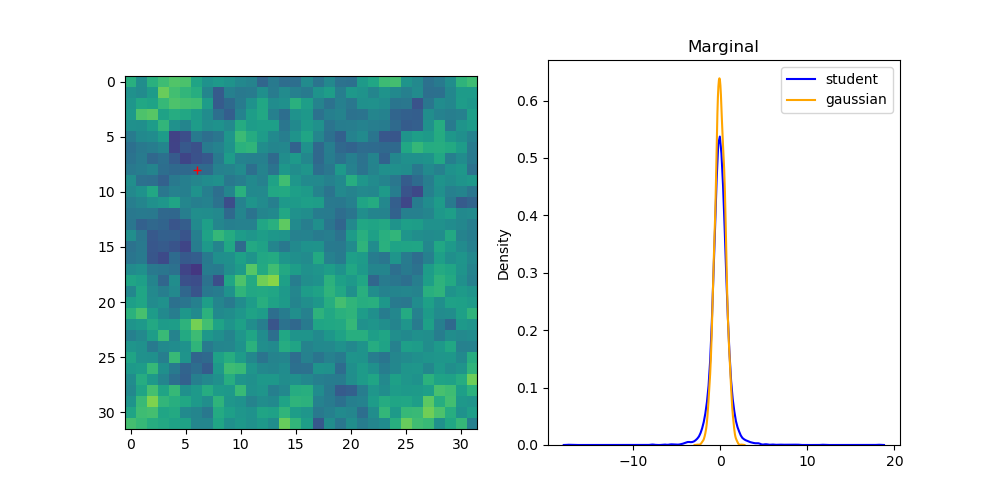
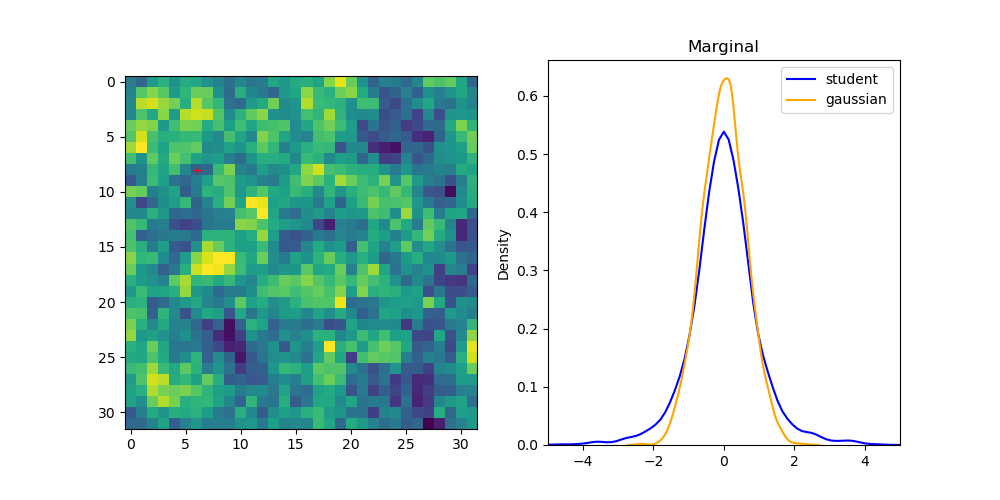
update local for br model 15 log10 large checker only

diff --git a/brown_resnick/sde_diffusion/masked/unparameterized/data_generation_on_the_fly.py b/brown_resnick/sde_diffusion/masked/unparameterized/data_generation_on_the_fly.py
@@ -104,6 +104,11 @@ def generate_checkered_masks_on_the_fly(n, number_of_replicates_per_mask):
     checkered_masks = checkered_masks.reshape((checkered_masks.shape[0],1,n,n))
     return np.repeat(checkered_masks, number_of_replicates_per_mask, axis = 0)
 
+def generate_large_checkered_masks_on_the_fly(n, number_of_replicates_per_mask):
+
+    checkered_masks = (produce_checkered_mask(n))[2:3,:,:]
+    checkered_masks = checkered_masks.reshape((1,1,n,n))
+    return np.repeat(checkered_masks, number_of_replicates_per_mask, axis = 0)
 
 #create matrix with masks from random_masks_on_the_fly and block_masks
 def generate_random_and_block_masks_on_the_fly(n, number_of_random_replicates_per_percentage, random_missingness_percentages,
@@ -294,7 +299,8 @@ def get_training_and_evaluation_mask_and_image_datasets_per_mask_log10(draw_numb
                                                                        random_missingness_percentages, 
                                                                        number_of_evaluation_random_replicates,
                                                                        batch_size, eval_batch_size, range_value,
-                                                                       smooth_value, seed_values, n):
+                                                                       smooth_value, seed_values, n,
+                                                                       trainquantfile):
     
     minX = -10
     maxX = 10
@@ -338,12 +344,10 @@ def get_training_and_evaluation_mask_and_image_datasets_per_mask_log10(draw_numb
     eval_dataloader = DataLoader(eval_dataset, batch_size = eval_batch_size, shuffle = True)
     return train_dataloader, eval_dataloader
 
-def get_training_and_evaluation_mask_and_image_datasets_per_mask_log10_checker(draw_number, number_of_random_replicates, 
-                                                                       random_missingness_percentages, 
-                                                                       number_of_evaluation_random_replicates,
+def get_training_and_evaluation_mask_and_image_datasets_per_mask_log10_checker(draw_number, 
                                                                        batch_size, eval_batch_size, range_value,
                                                                        smooth_value, seed_values, n,
-                                                                       trainquantfile, number_of_checker_replicates,
+                                                                       number_of_checker_replicates,
                                                                        number_of_evaluation_checker_replicates):
     
     minX = -10
@@ -352,37 +356,21 @@ def get_training_and_evaluation_mask_and_image_datasets_per_mask_log10_checker(d
     maxX = 10
     maxY = 10
     
-    train_masks = generate_random_and_checker_masks_on_the_fly(n, number_of_evaluation_random_replicates,
-                                                                random_missingness_percentages,
-                                                                number_of_evaluation_checker_replicates)
-    eval_masks = generate_random_and_checker_masks_on_the_fly(n, number_of_evaluation_random_replicates,
-                                                                random_missingness_percentages,
-                                                                number_of_evaluation_checker_replicates)
+    train_masks = generate_large_checkered_masks_on_the_fly(n, number_of_checker_replicates)
+    eval_masks = generate_random_and_checker_masks_on_the_fly(n, number_of_evaluation_checker_replicates)
     train_images, eval_images = generate_train_and_evaluation_brown_resnick_process(range_value,
                                                                                     smooth_value,
                                                                                     seed_values[0],
-                                                                                    number_of_random_replicates,
-                                                                                    number_of_evaluation_random_replicates,
+                                                                                    number_of_checker_replicates,
+                                                                                    number_of_evaluation_checker_replicates,
                                                                                     n)
     if(draw_number == 0):
         train_images = log10_transformation(train_images)
         eval_images = log10_transformation(eval_images)
-        trainquant = float(np.quantile(train_images, [.8]))
-        train_images = 2*(train_images - trainquant)
-        trainlogmin = float(np.min(train_images))
-        trainlogmax = float(np.max(train_images))
-        print(trainlogmax)
-        print(trainlogmin)
-        eval_images = 2*(eval_images - trainquant)
-        trainquant = np.array([trainquant])
-        np.save(trainquantfile, trainquant)
 
     else:
-        trainquant = np.load(trainquantfile)
         train_images = log10_transformation(train_images)
         eval_images = log10_transformation(eval_images)
-        train_images = train_images - float(trainquant)
-        eval_images = eval_images - float(trainquant)
 
     train_dataset = CustomSpatialImageandMaskDataset(train_images, train_masks)
     eval_dataset = (CustomSpatialImageandMaskDataset)(eval_images, eval_masks)

diff --git a/brown_resnick/sde_diffusion/masked/unparameterized/train.py b/brown_resnick/sde_diffusion/masked/unparameterized/train.py
@@ -274,14 +274,10 @@ def train_per_multiple_masks_log10(config, data_draws, epochs_per_drawn_data,
     epochs_and_draws = [i for i in range(0, len(train_losses))]
     visualize_loss(epochs_and_draws, train_losses, eval_losses, loss_path)
 
-def train_per_multiple_masks_log10_checker(config, data_draws, epochs_per_drawn_data,
-                             random_missingness_percentages,
-                             number_of_random_replicates,
-                             number_of_eval_random_replicates, seed_values,
-                             range_value, smooth_value, batch_size,
-                             eval_batch_size, score_model_path, loss_path, n,
-                             trainquantfile, number_of_checker_replicates,
-                             number_of_eval_checker_replicates):
+def train_per_multiple_masks_log10_checker(config, data_draws, epochs_per_drawn_data, seed_values,
+                                           range_value, smooth_value, batch_size, eval_batch_size,
+                                           score_model_path, loss_path, n, number_of_checker_replicates,
+                                           number_of_eval_checker_replicates):
     
     # Initialize model.
     #score_model = mutils.create_model(config)
@@ -321,13 +317,11 @@ def train_per_multiple_masks_log10_checker(config, data_draws, epochs_per_drawn_
     for data_draw in range(0, data_draws):
         print("data draw")
         print(data_draw)
-        train_dataloader, eval_dataloader = get_training_and_evaluation_mask_and_image_datasets_per_mask_log10_checker(data_draw, number_of_random_replicates,
-                                                                                                         random_missingness_percentages,
-                                                                                                         number_of_eval_random_replicates,
-                                                                                                         batch_size, eval_batch_size, range_value,
-                                                                                                         smooth_value, seed_values[data_draw],
-                                                                                                         n, trainquantfile, number_of_checker_replicates,
-                                                                                                         number_of_eval_checker_replicates)       
+        train_dataloader, eval_dataloader = get_training_and_evaluation_mask_and_image_datasets_per_mask_log10_checker(data_draw, 
+                                                                       batch_size, eval_batch_size, range_value,
+                                                                       smooth_value, seed_values, n,
+                                                                       number_of_checker_replicates,
+                                                                       number_of_eval_checker_replicates)       
         
         
         for epoch in range(0, epochs_per_drawn_data):
@@ -462,27 +456,25 @@ ve_ncsnpp_configuration = ve_ncsnpp_config.get_config()
 vpconfig = vp_ncsnpp_configuration
 veconfig = ve_ncsnpp_config
 
-data_draws = 20
+data_draws = 10
 epochs_per_drawn_data = 20
-random_missingness_percentages = [0,.25,.5,.75,.9]
-number_of_random_replicates = 5000
-number_of_eval_random_replicates = 250
+#random_missingness_percentages = [0,.25,.5,.75,.9]
 seed_values = [(int(np.random.randint(0, 100000)),int(np.random.randint(0, 100000)))
                 for i in range(0, data_draws)]
 range_value = 1.6
 smooth_value = 1.6
 batch_size = 512
-eval_batch_size = 250
-score_model_path = "trained_score_models/vpsde/model14_beta_min_max_01_20_1000_1.6_1.6_log10_batch_512_unmaskedloss_025507590_masks.pth"
-loss_path = "trained_score_models/vpsde/model14_beta_min_max_01_20_1000_1.6_1.6_log10_batch_512_unmaskedloss_025507590_loss.png"
+eval_batch_size = 32
+number_of_checker_replicates = 10000
+number_of_eval_checker_replicates = 32
+score_model_path = "trained_score_models/vpsde/model15_beta_min_max_01_20_1000_1.6_1.6_log10_batch_512_large_checker_masks.pth"
+loss_path = "trained_score_models/vpsde/model15_beta_min_max_01_20_1000_1.6_1.6_log10_batch_512_large_checker_loss.png"
 n = 32
 
-train_per_multiple_masks_log10(vpconfig, data_draws, epochs_per_drawn_data,
-                             random_missingness_percentages,
-                             number_of_random_replicates,
-                             number_of_eval_random_replicates, seed_values,
-                             range_value, smooth_value, batch_size,
-                             eval_batch_size, score_model_path, loss_path, n)
+train_per_multiple_masks_log10_checker(vpconfig, data_draws, epochs_per_drawn_data, seed_values,
+                                           range_value, smooth_value, batch_size, eval_batch_size,
+                                           score_model_path, loss_path, n, number_of_checker_replicates,
+                                           number_of_eval_checker_replicates)
 """
 data_draws = 20
 epochs_per_drawn_data = 20

diff --git a/brown_resnick/sde_diffusion/masked/unparameterized/losses.py b/brown_resnick/sde_diffusion/masked/unparameterized/losses.py
@@ -206,13 +206,13 @@ def get_masked_ddpm_loss_fn(vpsde, train, reduce_mean = True):
     #weighted losses
     stds = stds.view((batch_images.shape[0],1,1,1))
     losses = torch.square(torch.mul(stds, (torch.mul(stds, score) + noise)))
-    #masked_losses = torch.mul((1-batch_masks), losses)
-    #masked_losses = reduce_op(masked_losses.reshape(masked_losses.shape[0], -1), dim=-1)
-    #mask_loss = torch.mean(masked_losses)
-    losses = reduce_op(losses.reshape(losses.shape[0], -1), dim=-1)
-    print(losses)
-    loss = torch.mean(losses)
-    return loss
+    masked_losses = torch.mul((1-batch_masks), losses)
+    masked_losses = reduce_op(masked_losses.reshape(masked_losses.shape[0], -1), dim=-1)
+    mask_loss = torch.mean(masked_losses)
+    #losses = reduce_op(losses.reshape(losses.shape[0], -1), dim=-1)
+    #print(losses)
+    #loss = torch.mean(losses)
+    return mask_loss
   
   return loss_fn
 

diff --git a/studentnugget/masked/unparameterized/evaluation/marginal_and_bivariate_densities/produce_unconditional_marginal_and_bivariate_densities.py b/studentnugget/masked/unparameterized/evaluation/marginal_and_bivariate_densities/produce_unconditional_marginal_and_bivariate_densities.py
@@ -131,6 +131,7 @@ def produce_t_vs_normal_marginal_density(minX, maxX, minY, maxY, n, variance, le
     sns.kdeplot(data = pdd, ax = axs[1], palette=['blue'])
     sns.kdeplot(data = npdd, palette = ["orange"], ax = axs[1])
     axs[1].set_title("Marginal")
+    axs[1].set_xlim(-5,5)
     #location = index_to_spatial_location(minX, maxX, minY, maxY, n, missing_index)
     #rlocation = (round(location[0],2), round(location[1],2))
     #axs[1].set_xlabel("location: " + str(rlocation))
